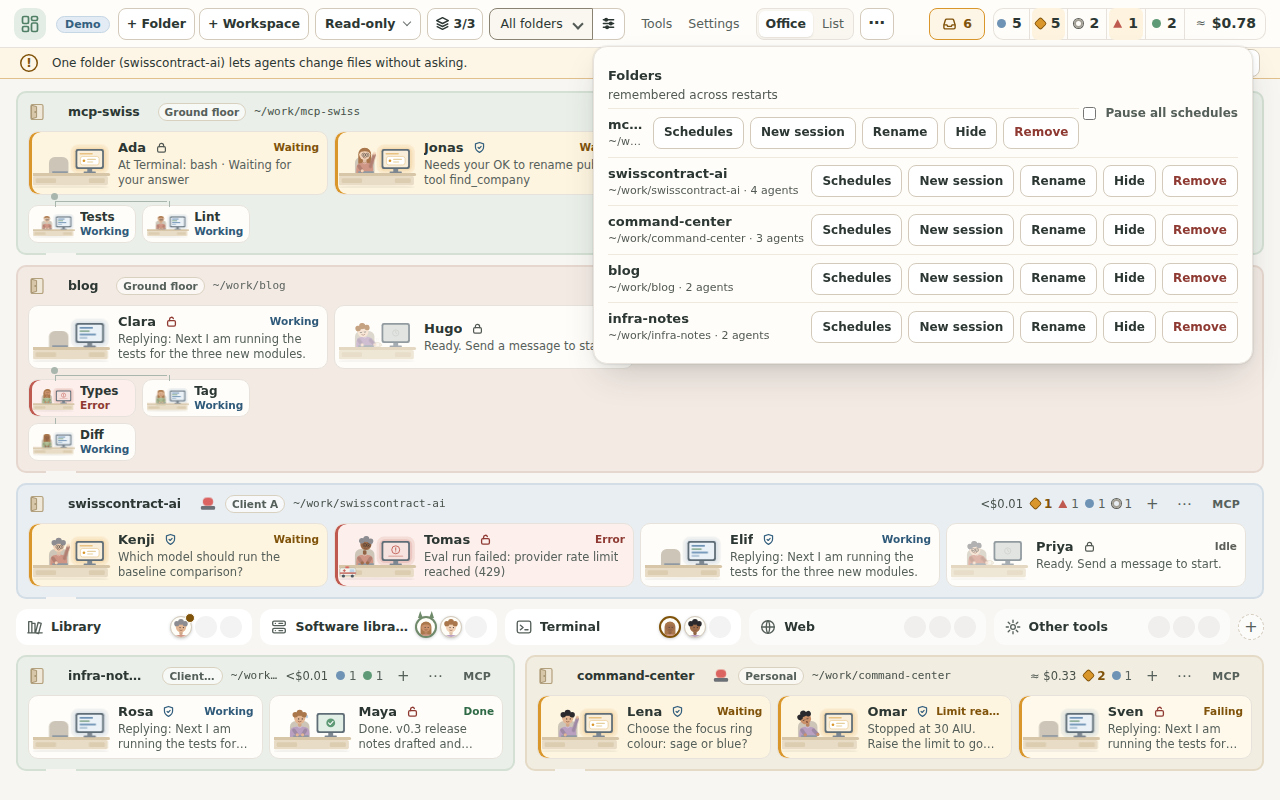
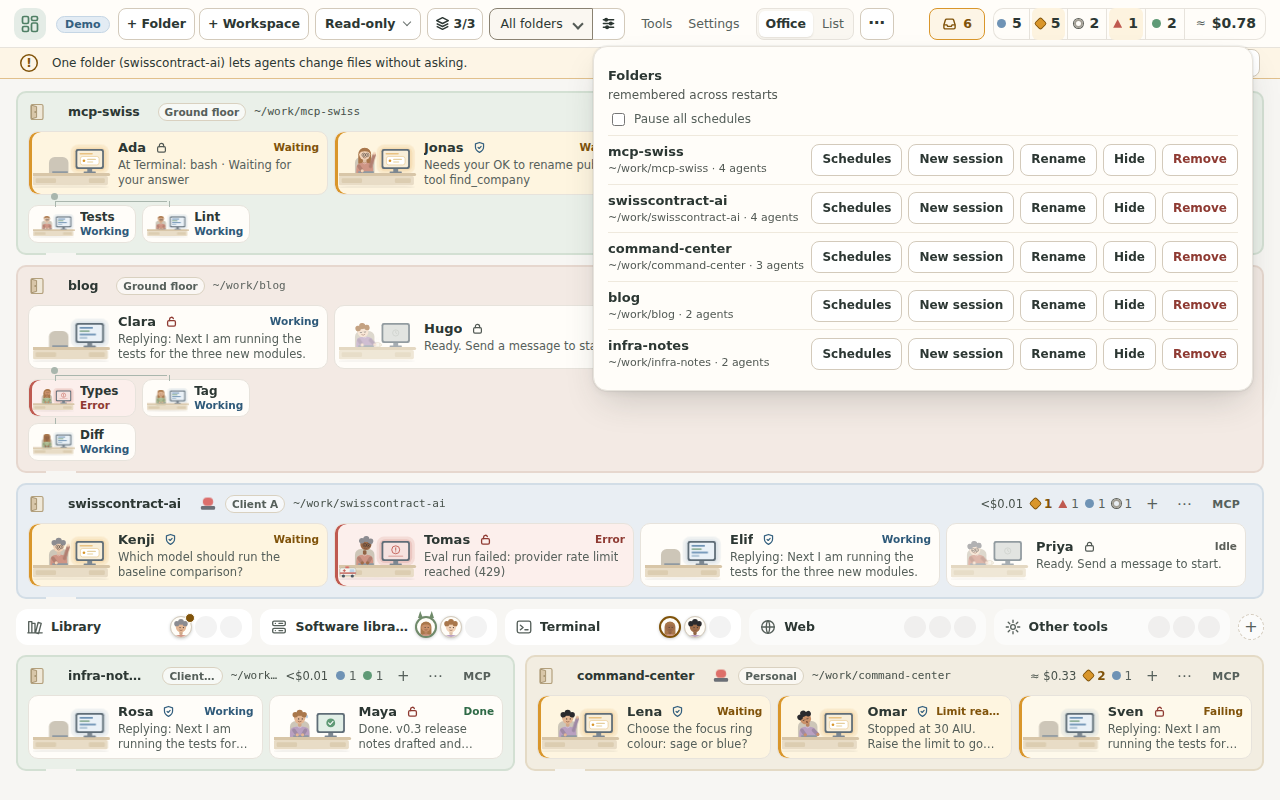
052: Folders popover: Pause all schedules on its own line; popover-squeezed rule (#508)
Claude-Session: https://claude.ai/code/session_011q7Qoo6kXkNkw9EMzzHxXD

Changed region(s): [[0.4688, 0.125, 1.0, 0.5], [0.8438, 0.125, 0.9688, 0.1562]]

diff --git a/scripts/ui-text-page.js b/scripts/ui-text-page.js
@@ -292,6 +292,11 @@
         }
       }
       if (kind === 'popover') {
+        // T171: a name cut to a sliver is the bug even with a title (the Folders popover's first row sat beside a floated checkbox: "mc...")
+        for (const el of root.querySelectorAll('.fp-t b, .fp-t small, .gp-t')) {
+          if (!vis(el)) continue;
+          if (el.scrollWidth > el.clientWidth + 1 && el.clientWidth < 120) add('popover-squeezed', root, el, `"${snip(el.textContent, 30)}" is cut to ${el.clientWidth}px (scrollWidth ${el.scrollWidth})`);
+        }
         // FR-167 (T169, issue #508): width is the S or M token (or the window minus 32px), padding is --pop-pad
         const rs = getComputedStyle(document.documentElement);
         const toks = [['--pop-w-s', 420], ['--pop-w-m', 660]].map(([n, want]) => ({ n, want, v: rs.getPropertyValue(n).trim() }));

diff --git a/src/renderer/styles.css b/src/renderer/styles.css
@@ -854,7 +854,7 @@ body:has(#aiTryBar) #toasts{bottom:100px}
 .fp-t small{font-size:11px;color:var(--muted);overflow:hidden;text-overflow:ellipsis;white-space:nowrap}
 .fp-row .btn{height:var(--h-ctl);padding:0 10px;font-size:12px}
 /* scheduled prompts (spec 044) */
-.fp-h .fp-pause{float:right;font-size:12px;color:var(--ink-2);display:inline-flex;gap:6px;align-items:center;cursor:pointer}
+.fp-h .fp-pause{margin:6px 0 2px;font-size:12px;font-weight:400;color:var(--ink-2);display:flex;gap:6px;align-items:center;cursor:pointer}
 .sched-dlg .sc-list{display:grid;gap:6px;margin:6px 0 12px;max-height:240px;overflow-y:auto}
 .sched-dlg .sc-row,.sched-set .sc-row{display:flex;gap:6px;align-items:center;padding:6px 0;border-top:1px solid var(--line)}
 .sched-dlg .sc-row.off .sc-t,.sched-set .sc-row.off .sc-t{opacity:.6}

diff --git a/specs/052-usability-pass/spec.md b/specs/052-usability-pass/spec.md
@@ -864,6 +864,7 @@ Follow-up of the FR-165..FR-171 pass: the popovers (Defaults, Folders, Floors, t
   - **M** `--pop-w-m: 660px` for a list of rows with several buttons (Folders, Floors). One width cannot fit all: a Folders row holds four buttons, so a 320px token would wrap them.
   - Each is `min(W, 100vw - 32px)`; the padding is `--pop-pad: 12px 14px` (the value FR-167 already named). No popover sets its own width or padding.
   - Long content wraps (a name, a path, a grant label ends in an ellipsis with a `title`); a popover never scrolls sideways (`scrollWidth <= clientWidth`) and never cuts text; text is 10.5px or more.
+- **Folders first row (2026-10-22):** the "Pause all schedules" checkbox sits on its own line under the help (it was floated right and squeezed the first folder's name to "mc..."). A name or path in a popover is never cut to under 120px: rule `popover-squeezed` (an ellipsis with a `title` was not enough to catch it).
 - **Check:** `check:ui-text` rule `popover-width`: on each `popover` surface the width is the S or M token (or `100vw - 32px` in a small window) and the padding is `--pop-pad`.
 
 ### 2026-10-21: help and UI text pass: wrapping, box widths, tooltips (FR-165..FR-171)

diff --git a/specs/052-usability-pass/tasks.md b/specs/052-usability-pass/tasks.md
@@ -278,3 +278,6 @@
 - [x] T170 Screenshots (both sizes, light and dark where it matters) in `docs/screenshots/052-popover-*`; docs: FR-167 `[IMPLEMENTED]`, `docs/design-rules.md`, CHANGELOG [FR-167]
   - Accept: FR-167 has no popover `[KNOWN GAP]`; the design rules describe the two tokens.
   - Check: `typecheck`, `build`, `npm test`, `check:ui-text`, `check:office`, `check:geometry`.
+- [x] T171 Folders popover: the Pause all schedules checkbox on its own line; rule `popover-squeezed` in `check:ui-text` [FR-167]
+  - Accept: the first folder row shows its full name at both sizes; no popover name or path is cut to under 120px.
+  - Check: mutation (`float:right` back on `.fp-pause`) fails `popover-squeezed`; code restored byte for byte.
